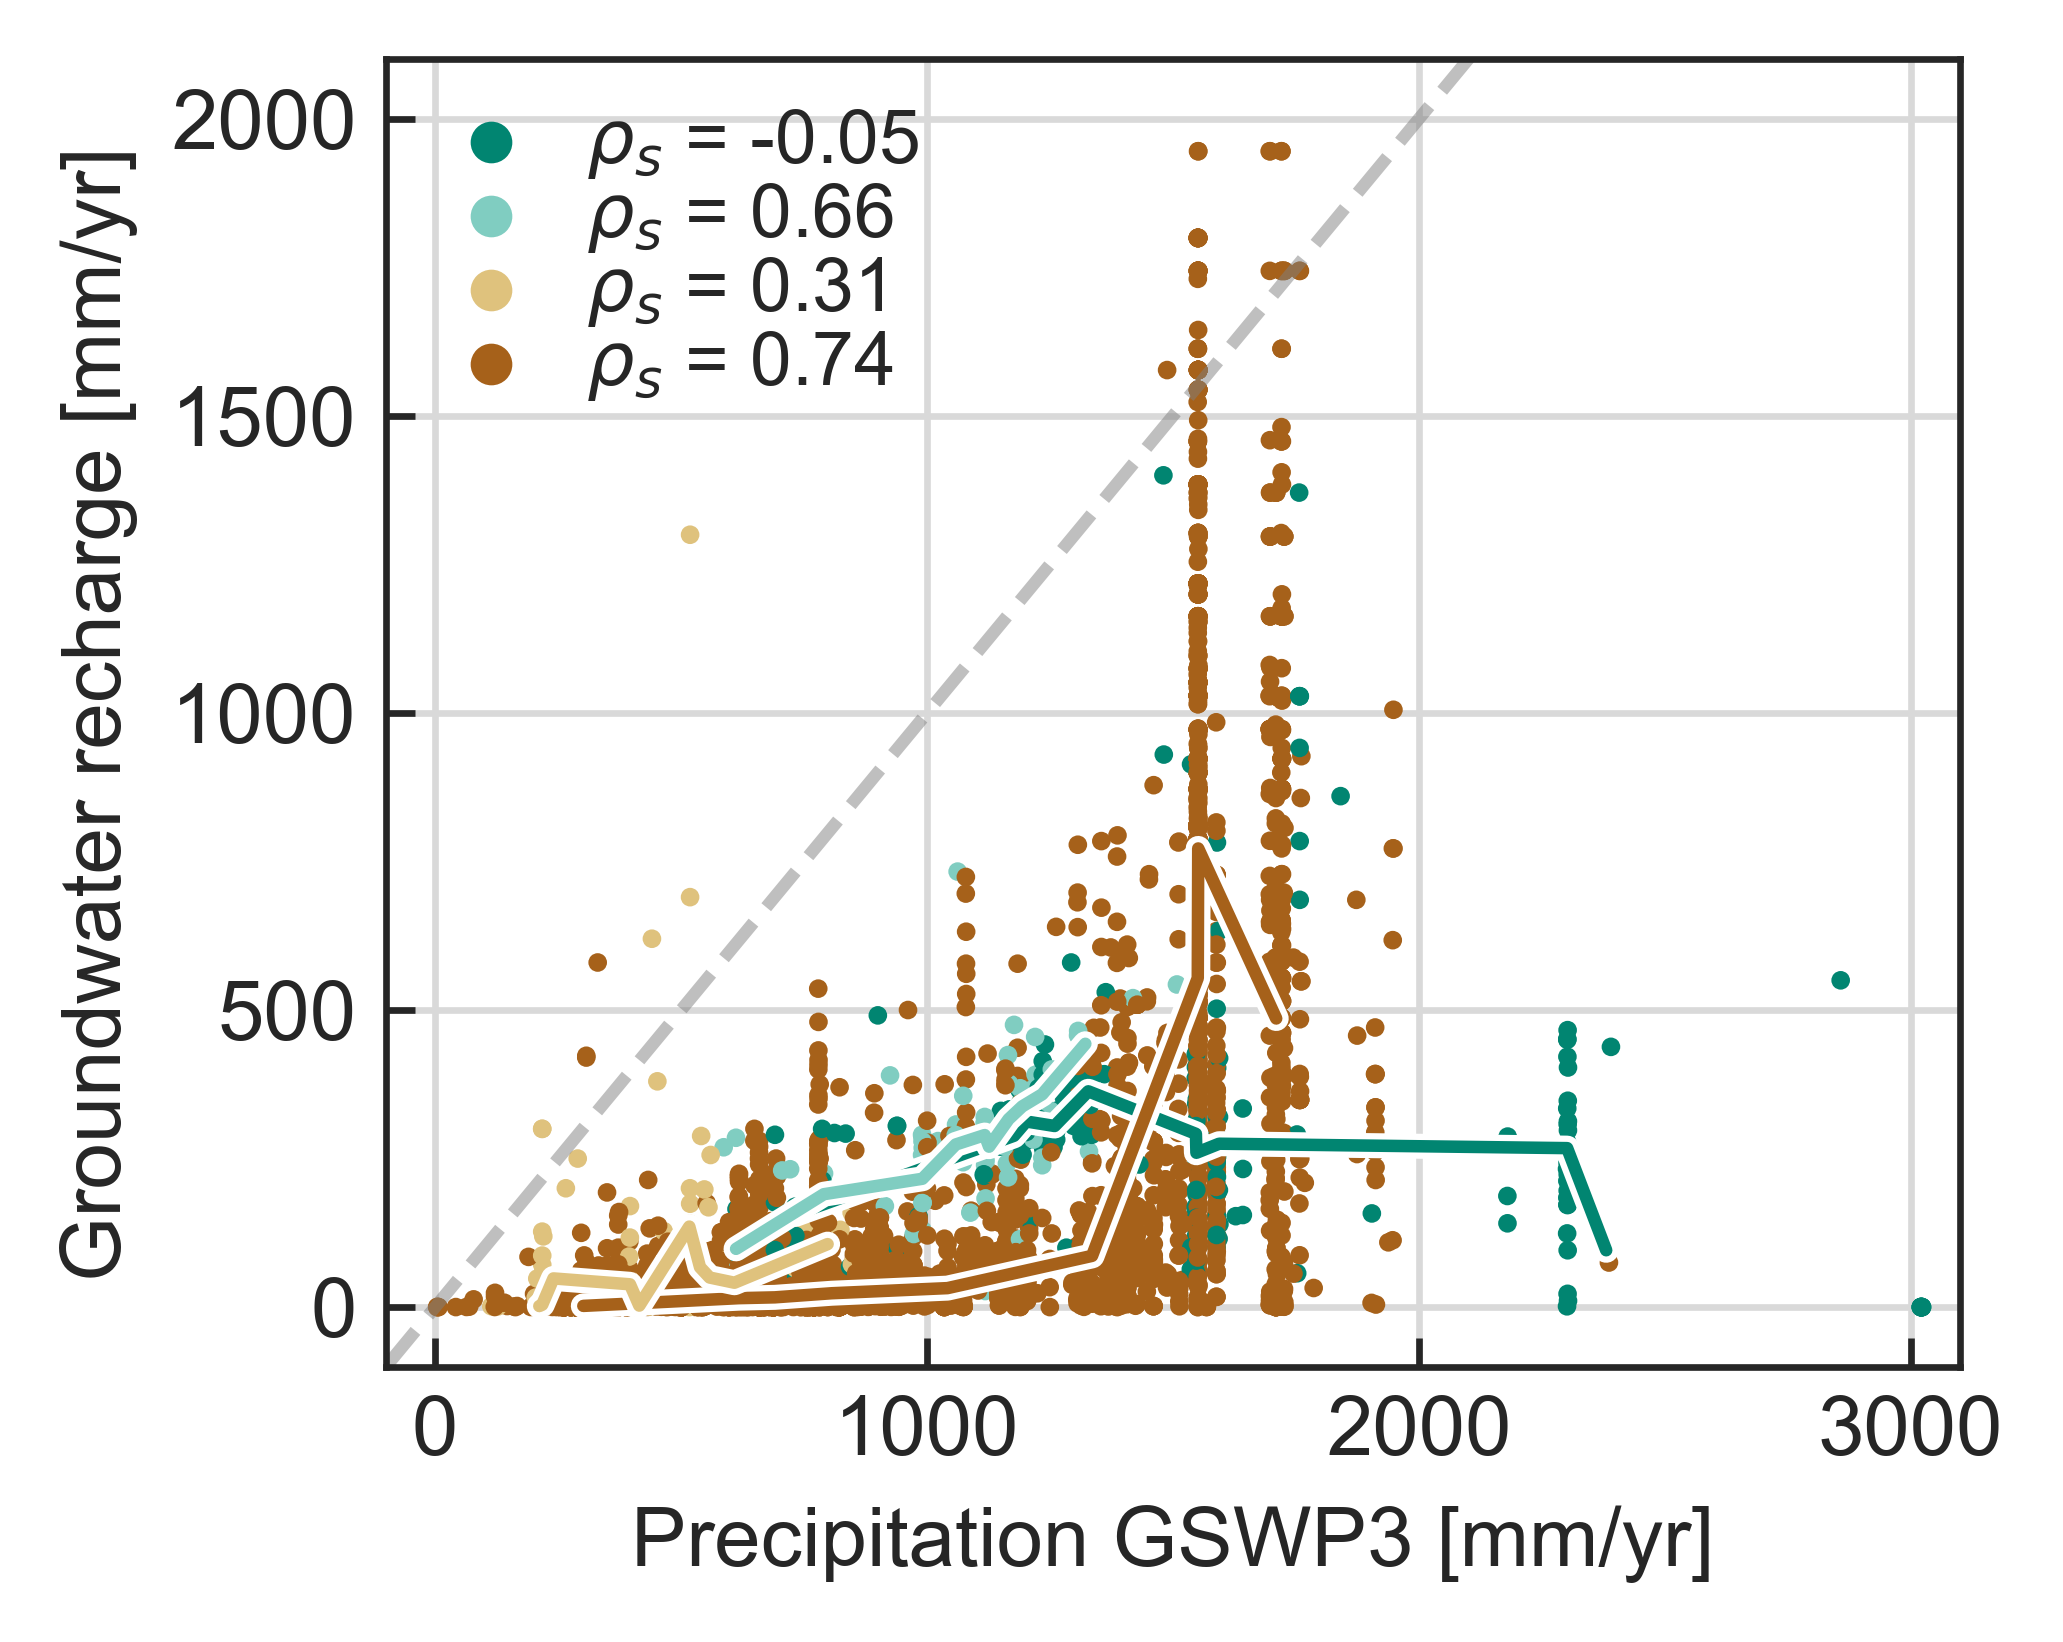
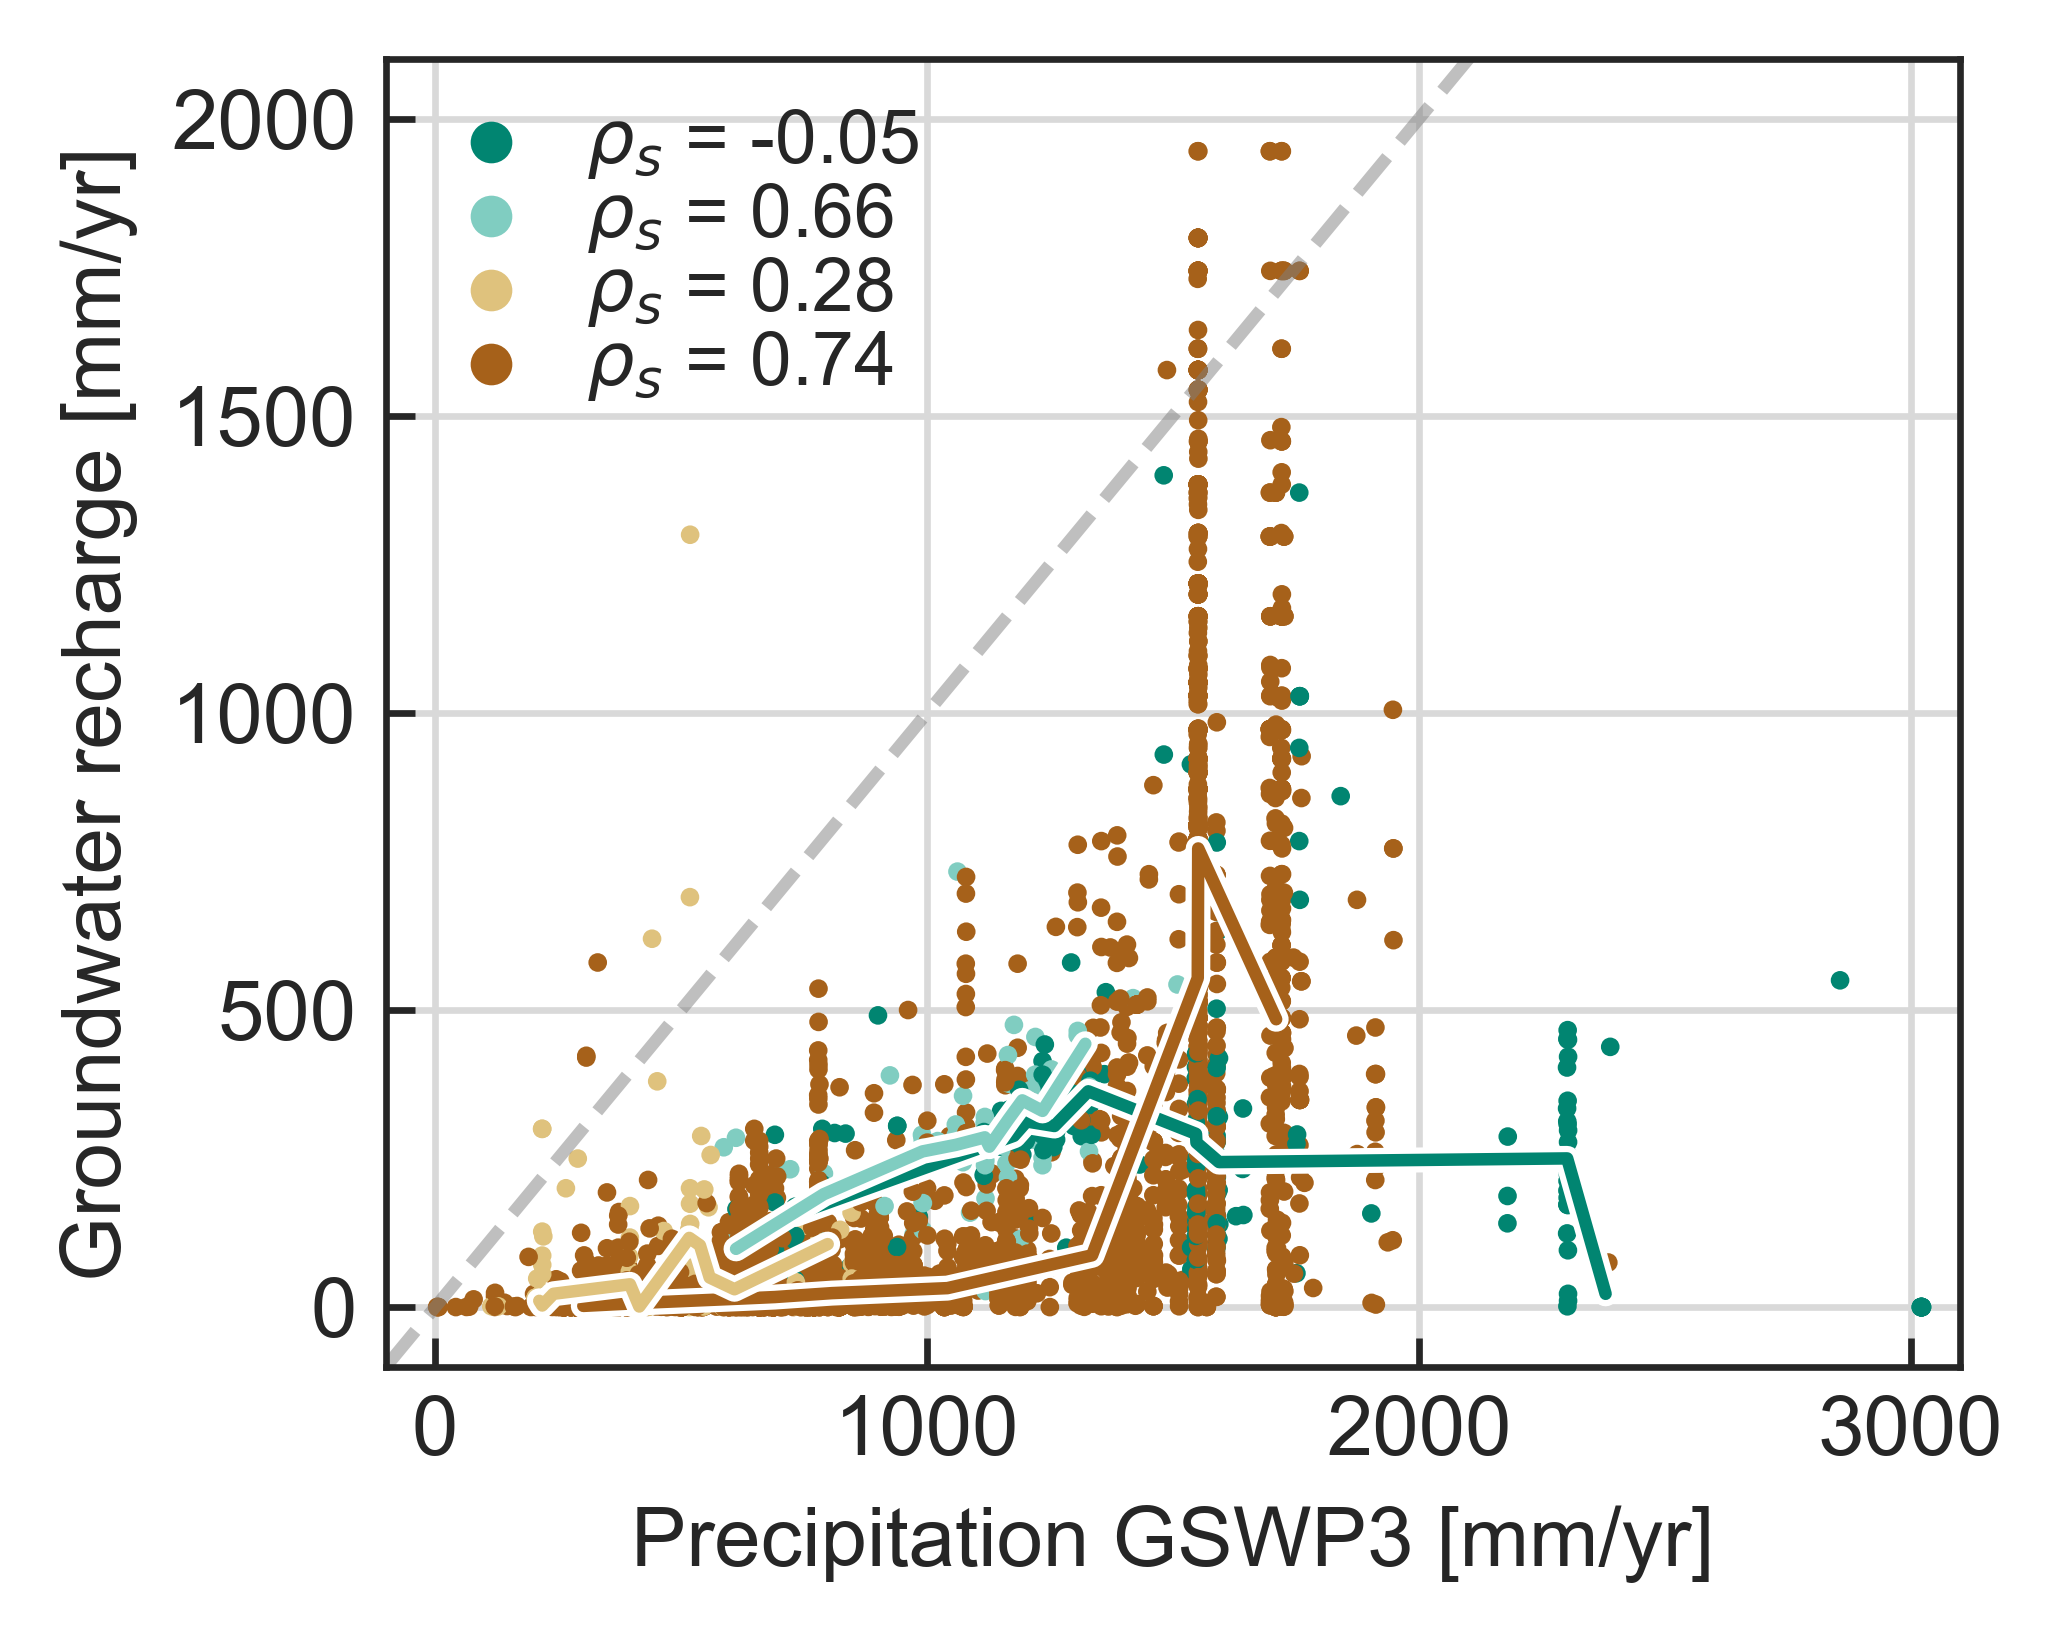
small changes to plots

Changed region(s): [[0.2482, 0.6212, 0.8066, 0.8076], [0.4964, 0.7454, 0.5274, 0.7765], [0.4033, 0.1553, 0.4343, 0.1864]]

diff --git a/plotting_script_lines.py b/plotting_script_lines.py
@@ -182,7 +182,7 @@ def plot_GRUN(d, domain_list, x_name, y_name, axs, n):
         subgroup = df[d] == domain_list[i]
         x = df.loc[subgroup, x_name]
         y = df.loc[subgroup, y_name]
-        plotting_fcts.plot_lines(x, y, axs[i], data_palette, domains, domain_list[i], n=n, ls='dashdot')
+        plotting_fcts.plot_lines(x, y, axs[i], data_palette, domains, domain_list[i], n=n, ls='dashed')
 
 def plot_CARAVAN(d, domain_list, x_name, y_name, axs, n):
 
@@ -196,7 +196,7 @@ def plot_CARAVAN(d, domain_list, x_name, y_name, axs, n):
         subgroup = df[d] == domain_list[i]
         x = df.loc[subgroup, x_name]
         y = df.loc[subgroup, y_name]
-        plotting_fcts.plot_lines(x, y, axs[i], data_palette, domains, domain_list[i], n=n, ls='dashed')
+        plotting_fcts.plot_lines(x, y, axs[i], data_palette, domains, domain_list[i], n=n, ls='dashdot')
 
 def multilineplots(df):
 
@@ -204,8 +204,6 @@ def multilineplots(df):
     results_path = "results/lines/"
     if not os.path.isdir(results_path):
         os.makedirs(results_path)
-
-    data_path
 
     # rename variables and models for paper
     df.rename(columns = {'pr':'Precipitation', 'netrad':'Net radiation',
@@ -218,9 +216,9 @@ def multilineplots(df):
     #df = df.replace(new_names, regex=True)
 
     # define variables
-    x_name_list = ["Precipitation", "Net radiation", "totrad"]
-    x_unit_list = [" [mm/yr]", " [mm/yr]", " [mm/yr]"]
-    x_lim_list = [[-100, 3100], [-100, 2100], [2400, 10100]]
+    x_name_list = ["Precipitation", "Net radiation"]
+    x_unit_list = [" [mm/yr]", " [mm/yr]"]
+    x_lim_list = [[-100, 3100], [-100, 2100]]
     y_name_list = ["Actual evapotranspiration", "Groundwater recharge", "Total runoff"]
     y_unit_list = [" [mm/yr]", " [mm/yr]", " [mm/yr]"]
     y_lim_list = [[-100, 2100], [-100, 2100], [-100, 2100]]
@@ -285,6 +283,93 @@ def multilineplots(df):
     print("Finished multi line plots.")
 
 
+def multilineplots_all(df):
+
+    # check if folder exists
+    results_path = "results/lines/"
+    if not os.path.isdir(results_path):
+        os.makedirs(results_path)
+
+    # rename variables and models for paper
+    df.rename(columns = {'pr':'Precipitation', 'netrad':'Net radiation',
+                         'evap':'Actual evap.', 'qr':'Gr. recharge', 'qtot':'Total runoff'}, inplace = True)
+    palette = {"wet warm": '#018571', "dry warm": '#a6611a', "wet cold": '#80cdc1', "dry cold": '#dfc27d'}
+    df["sort_helper"] = df["domain_days_below_1_0.08_aridity_netrad"]
+    df["sort_helper"] = df["sort_helper"].replace({'wet warm': 0, 'wet cold': 1, 'dry cold': 2, 'dry warm': 3})
+    df = df.sort_values(by=["sort_helper", "ghm"])
+    #new_names = {'clm45':'CLM4.5', 'jules-w1':'JULES-W1', 'lpjml':'LPJmL', 'matsiro':'MATSIRO', 'pcr-globwb':'PCR-GLOBWB', 'watergap2':'WaterGAP2', 'h08':'H08', 'cwatm':'CWatM'}
+    #df = df.replace(new_names, regex=True)
+
+    # define variables
+    x_name_list = ["Precipitation", "Net radiation"]
+    x_unit_list = [" [mm/yr]", " [mm/yr]"]
+    x_lim_list = [[[800, 3800], [100, 1500], [50, 800], [-100, 1600]],
+                  [[700, 2500], [-200, 1500], [0, 1500], [500, 2700]]]
+    y_name_list = ["Actual evap.", "Gr. recharge", "Total runoff"]
+    y_unit_list = [" [mm/yr]", " [mm/yr]", " [mm/yr]"]
+    y_lim_list = [[[400, 1500], [-700/10, 700], [50, 550], [-1300/10, 1300]],
+                  [[0, 1800], [-700/10, 700], [-120/10, 120], [-400/10, 400]],
+                  [[200, 2500], [0, 1100], [-400/10, 400], [-700/10, 700]]]
+
+    # loop over variables
+    for x_name, x_unit, x_lim in zip(x_name_list, x_unit_list, x_lim_list):
+
+        for y_name, y_unit, y_lim in zip(y_name_list, y_unit_list, y_lim_list):
+
+            fig, axs = plt.subplots(1, 4, figsize=(8, 2)) #, facecolor='w', edgecolor='k'
+            axs = axs.ravel()
+
+            d = "domain_days_below_1_0.08_aridity_netrad"
+            domain_list = ["wet warm", "wet cold", "dry cold", "dry warm"]
+            #ghm_list = ["CLM4.5", "CWatM", "H08", "JULES-W1", "LPJmL", "MATSIRO", "PCR-GLOBWB", "WaterGAP2"]
+            ghm_list = ["clm45", "cwatm", "h08", "jules-w1", "lpjml", "matsiro", "pcr-globwb", "watergap2"]
+
+            n = 11
+
+            for i in range(0,4):
+
+                for ghm in ghm_list:
+
+                    subgroup = np.logical_and(df[d]==domain_list[i], df["ghm"]==ghm)
+                    x = df.loc[subgroup, x_name]
+                    y = df.loc[subgroup, y_name]
+                    plotting_fcts.plot_lines(x, y, axs[i], palette, domains, domain_list[i], n=n)
+                    axs[i].grid('major', alpha=0.5, linewidth=1)
+
+                axs[i].set_xlabel(x_name + x_unit)
+                if i == 0:
+                    axs[i].set_ylabel(y_name + y_unit)
+                axs[i].set_xlim(x_lim[i])
+                axs[i].set_ylim(y_lim[i])
+                #axs[i].set_title(domain_list[i])
+                #plotting_fcts.plot_origin_line_alt(axs[i])
+
+                if x_name=="Precipitation" and y_name=="Actual evap.":
+                    plot_FLUXCOM(d, domain_list, "Precipitation GSWP3", "Actual evapotranspiration", axs, n)
+                    #plot_FLUXNET(d, domain_list, "Precipitation", "Actual evapotranspiration", axs, n)
+                    plot_Budyko(d, domain_list, "Precipitation", "Actual evapotranspiration", axs, n)
+
+                if x_name=="Precipitation" and y_name=="Gr. recharge":
+                    plot_MacDonald(d, domain_list, "Precipitation", "Groundwater recharge", axs, 6)
+                    plot_Moeck(d, domain_list, "Precipitation GSWP3", "Groundwater recharge", axs, 6)
+
+                if x_name=="Precipitation" and y_name=="Total runoff":
+                    plot_GSIM(d, domain_list, "Precipitation", y_name, axs, n)
+                    plot_GRUN(d, domain_list, "Precipitation GSWP3", y_name, axs, n)
+                    #plot_CARAVAN(d, domain_list, "Precipitation", y_name, axs, n)
+                    plot_Budyko(d, domain_list, "Precipitation", y_name, axs, n)
+
+                if x_name=="Net radiation" and y_name=="Actual evap.":
+                    plot_FLUXCOM(d, domain_list, "Net radiation", "Actual evapotranspiration", axs, n)
+                    #plot_FLUXNET(d, domain_list, "Precipitation", "Actual evapotranspiration", axs, n)
+                    plot_Budyko(d, domain_list, "Net radiation", "Actual evapotranspiration", axs, n)
+
+            plt.tight_layout()
+            fig.savefig(results_path + x_name + '_' + y_name + "_multiline_plot.png", dpi=600, bbox_inches='tight')
+            plt.close()
+
+    print("Finished multi line plots.")
+
 def regressionplots(df):
 
     # check if folder exists
@@ -344,5 +429,6 @@ def regressionplots(df):
 ### run functions ###
 
 #lineplots(df)
-multilineplots(df)
+#multilineplots(df)
+multilineplots_all(df)
 #regressionplots(df)

diff --git a/helpers/plotting_fcts.py b/helpers/plotting_fcts.py
@@ -24,6 +24,14 @@ def plot_origin_line(x, y, **kwargs):
     ax.plot(np.linspace(lower_lim, upper_lim, 1000), np.linspace(lower_lim,  upper_lim, 1000), '--', color='grey', alpha=0.5, zorder=1)
 
 
+def plot_origin_line_alt(ax=plt.gca(), **kwargs): #x, y,
+
+    #ax = plt.gca()
+    lower_lim = [ax.get_ylim()[0]]
+    upper_lim = [ax.get_ylim()[1]]
+    ax.plot(np.linspace(lower_lim, upper_lim, 1000), np.linspace(lower_lim,  upper_lim, 1000), '--', color='grey', alpha=0.5, zorder=1)
+
+
 def plot_Budyko_limits(x, y, **kwargs):
 
     ax = plt.gca()
@@ -101,7 +109,7 @@ def plot_bins_group(x, y, color="tab:blue", group_type="aridity_class", group="e
 def plot_lines(x, y, ax, palette, domains, domain, n=11, ls="solid"):
 
     import matplotlib.patheffects as mpe
-    outline = mpe.withStroke(linewidth=3, foreground='white')
+    outline = mpe.withStroke(linewidth=4, foreground='white')
 
     color = palette[domain]
 
@@ -124,7 +132,7 @@ def plot_lines(x, y, ax, palette, domains, domain, n=11, ls="solid"):
 def plot_lines_group(x, y, palette, domains, domain, n=11, **kwargs):
 
     import matplotlib.patheffects as mpe
-    outline = mpe.withStroke(linewidth=3, foreground='white')
+    outline = mpe.withStroke(linewidth=4, foreground='white')
 
     # extract data
     df = kwargs.get('data')
@@ -240,7 +248,7 @@ def add_regression_domains(x, y, domains, palette, **kwargs):
 
     from sklearn.linear_model import LinearRegression
     import matplotlib.patheffects as mpe
-    outline = mpe.withStroke(linewidth=3, foreground='white')
+    outline = mpe.withStroke(linewidth=4, foreground='white')
 
     df = kwargs.get('data')
     df = df.dropna(subset = [x])
